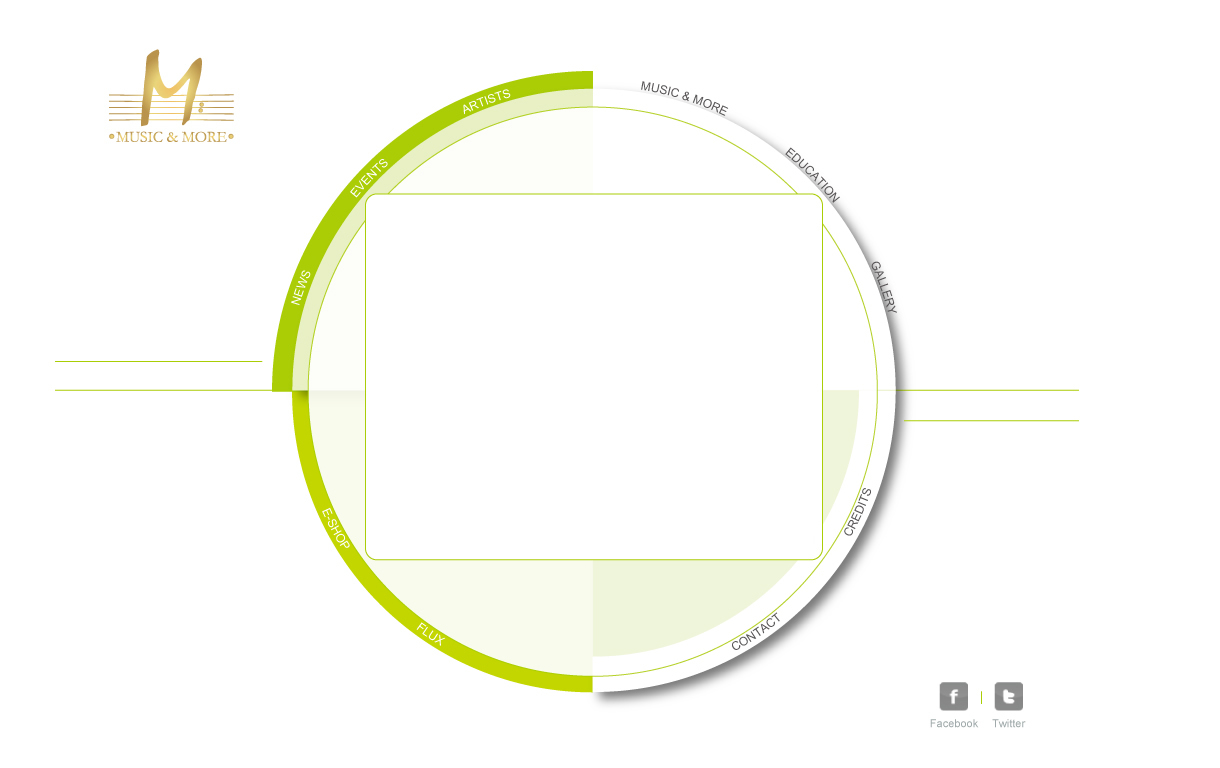
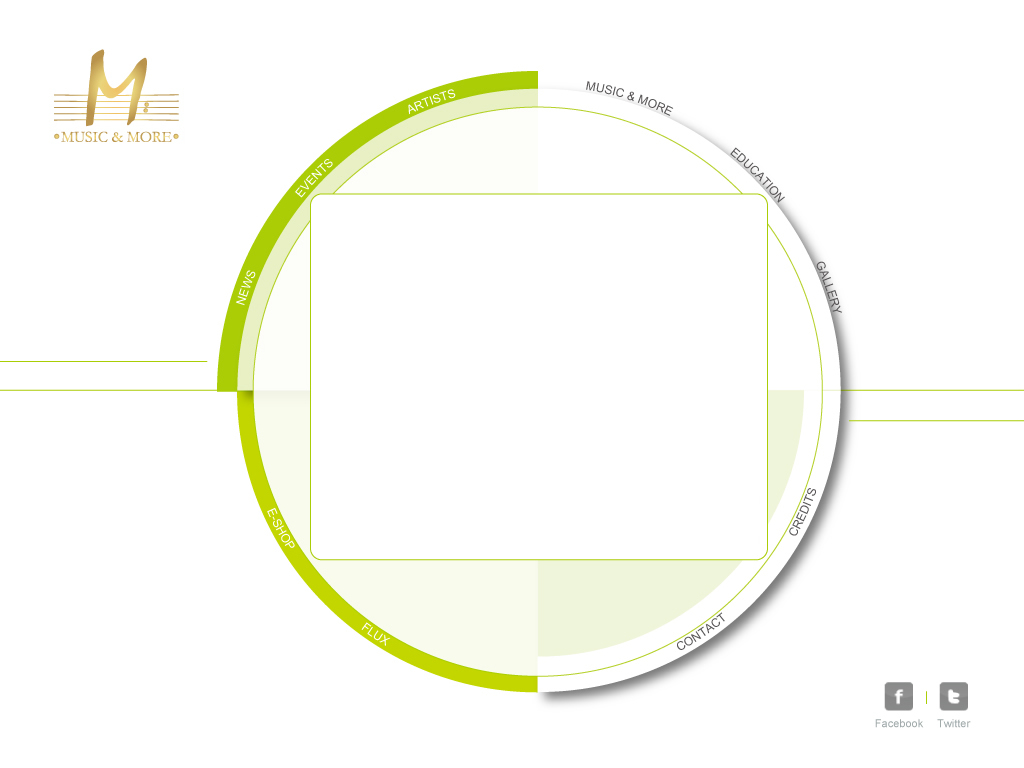
添加引导页 修改页面大小为1024X768

Changed region(s): [[0.1875, 0.0938, 0.8438, 0.9375], [0.75, 0.875, 0.9688, 0.9688], [0.0625, 0.0625, 0.1875, 0.1875]]

diff --git a/www/home.htm b/www/home.htm
@@ -1,0 +1,30 @@
+<!DOCTYPE html PUBLIC "-//W3C//DTD XHTML 1.0 Transitional//EN"
+"http://www.w3.org/TR/xhtml1/DTD/xhtml1-transitional.dtd">
+<html xmlns="http://www.w3.org/1999/xhtml">
+<head>
+<title>index</title>
+<meta http-equiv="Content-Type" content="text/html; charset=utf-8" />
+<link rel="stylesheet" href="style.css" type="text/css" media="screen" charset="utf-8" />
+<meta name="keywords" content="keywords" />
+<meta name="description" content="description" />
+<meta name="author" content="xtunes.cc" />
+</head>
+<body>
+<div class="main">
+	<img name="websidepages0" src="images/bg.jpg" width="1024" height="768" border="0" id="websidepages0" usemap="#m_websidepages0" alt="" /><map name="m_websidepages0" id="m_websidepages0">
+<area shape="poly" coords="360,614,349,630,393,657,402,642" href="javascript:;" alt="" />
+<area shape="poly" coords="254,507,271,498,302,549,283,560" href="javascript:;" alt="" />
+<area shape="poly" coords="226,311,244,317,265,264,248,257" href="javascript:;" alt="" />
+<area shape="poly" coords="724,606,737,623,684,661,670,645" href="javascript:;" alt="" />
+<area shape="poly" coords="809,480,831,487,805,547,783,537" href="javascript:;" alt="" />
+<area shape="poly" coords="827,249,810,256,833,323,849,317" href="javascript:;" alt="" />
+<area shape="poly" coords="735,138,724,151,785,210,797,201" href="javascript:;" alt="" />
+<area shape="poly" coords="582,75,577,88,674,118,679,105" href="javascript:;" alt="" />
+<area shape="poly" coords="390,105,399,122,472,95,467,77" href="javascript:;" alt="" />
+<area shape="poly" coords="286,193,298,205,343,159,332,146" href="www.163.com" target="_blank" alt="" />
+</map>
+<iframe class="mainframe" src="frame_home.htm"></iframe>
+</div>
+</body>
+</html>
+

diff --git a/www/index.htm b/www/index.htm
@@ -10,21 +10,10 @@
 <meta name="author" content="xtunes.cc" />
 </head>
 <body>
-<div class="main">
-	<img name="websidepages0" src="images/bg.jpg" width="1220" height="768" border="0" id="websidepages0" usemap="#m_websidepages0" alt="" /><map name="m_websidepages0" id="m_websidepages0">
-<area shape="poly" coords="415,614,404,630,448,657,457,642" href="javascript:;" alt="" />
-<area shape="poly" coords="309,507,326,498,357,549,338,560" href="javascript:;" alt="" />
-<area shape="poly" coords="281,311,299,317,320,264,303,257" href="javascript:;" alt="" />
-<area shape="poly" coords="779,606,792,623,739,661,725,645" href="javascript:;" alt="" />
-<area shape="poly" coords="864,480,886,487,860,547,838,537" href="javascript:;" alt="" />
-<area shape="poly" coords="882,249,865,256,888,323,904,317" href="javascript:;" alt="" />
-<area shape="poly" coords="790,138,779,151,840,210,852,201" href="javascript:;" alt="" />
-<area shape="poly" coords="637,75,632,88,729,118,734,105" href="javascript:;" alt="" />
-<area shape="poly" coords="445,105,454,122,527,95,522,77" href="javascript:;" alt="" />
-<area shape="poly" coords="341,193,353,205,398,159,387,146" href="www.163.com" target="_blank" alt="" />
+	<div class="main">
+		<img name="websidehomepage" src="images/index.jpg" width="1024" height="768" border="0" id="websidehomepage" usemap="#m_websidehomepage" alt="" /><map name="m_websidehomepage" id="m_websidehomepage">
+<area shape="rect" coords="820,51,897,124" href="home.htm" alt="" />
+	</div>
 </map>
-<iframe class="mainframe" src="frame_index.htm"></iframe>
-</div>
 </body>
 </html>
-

diff --git a/www/frame_home.htm b/www/frame_home.htm
@@ -10,6 +10,6 @@
 <meta name="author" content="xtunes.cc" />
 </head>
 	<body>
-		<img src="images/index.jpg" width="436" height="349" alt="Index">
+		<img src="images/home.jpg" width="436" height="349" alt="Index">
 	</body>
 </html>
